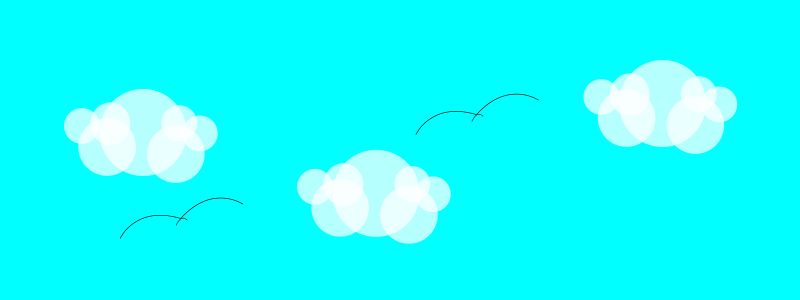
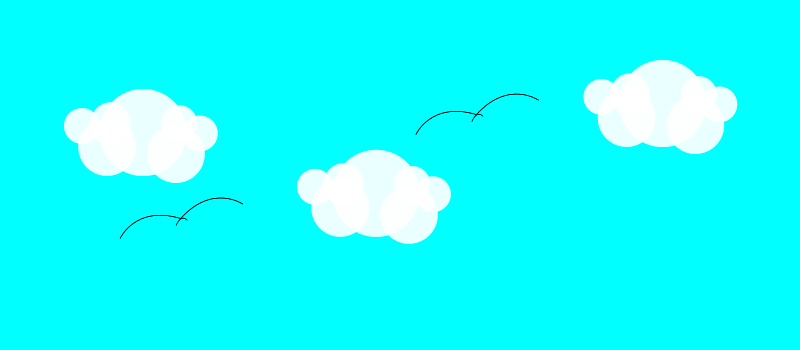
Dahan dlu ngantuk coy

diff --git a/game.py b/game.py
@@ -9,9 +9,16 @@ screen = pygame.display.set_mode((800,450))
 pygame.display.set_caption('Jumper')
 # Membuat objek clock untuk mengatur framerate
 clock = pygame.time.Clock()
+# Membuat Font
+testText = pygame.font.Font('Graphics_placeholder/pixeltype/Pixeltype.ttf', 50)
 
-# Test
-skySurface = pygame.image.load('Graphics_placeholder\sky_placeholder.png')
+# Menambahkan surface (membuat gambar)
+skySurface = pygame.image.load('Graphics_placeholder/sky_placeholder.png').convert()
+groundSuface = pygame.image.load('Graphics_placeholder/ground_placeholder.png').convert()
+testTextSurf = testText.render('My game', False, 'red').convert()
+    # Obstacle
+obstacleSurface = pygame.image.load('Graphics_placeholder/obstacle_placeholder.png').convert_alpha()
+obstacleXpos = 600
 
 # game loop
 while True:
@@ -24,7 +31,17 @@ while True:
     
     # Menempatkan surface pada display
     screen.blit(skySurface,(0,0))
+    screen.blit(groundSuface,(0,350))
+    screen.blit(testTextSurf,(300,50))
+    # Membuat animasi untuk obstacle
+    if obstacleXpos > -30:
+        obstacleXpos -= 4
+    else:
+        obstacleXpos = 800
+    screen.blit(obstacleSurface,(obstacleXpos,300))
+
     # Me-refresh tampilan pada window
     pygame.display.update()
+
     # Mengatur framerate 60 fps
     clock.tick(60)
